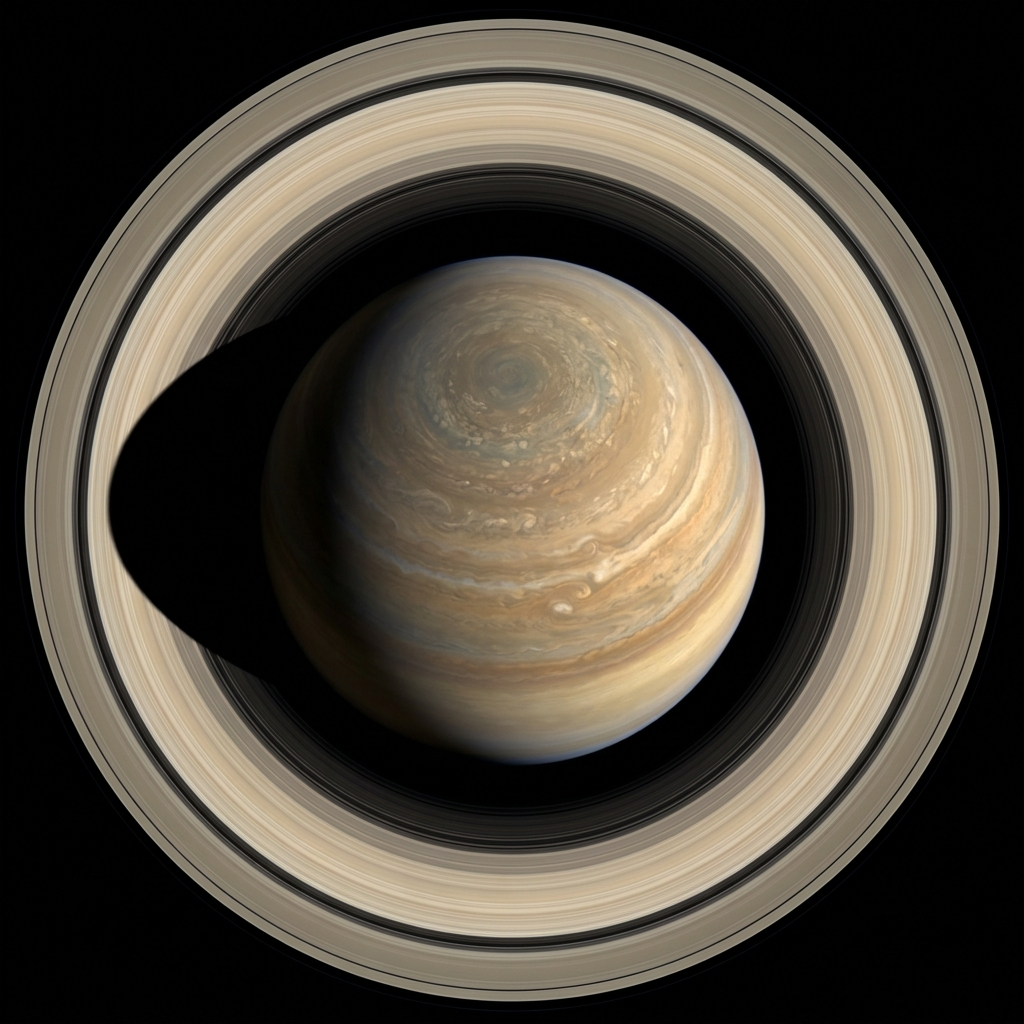
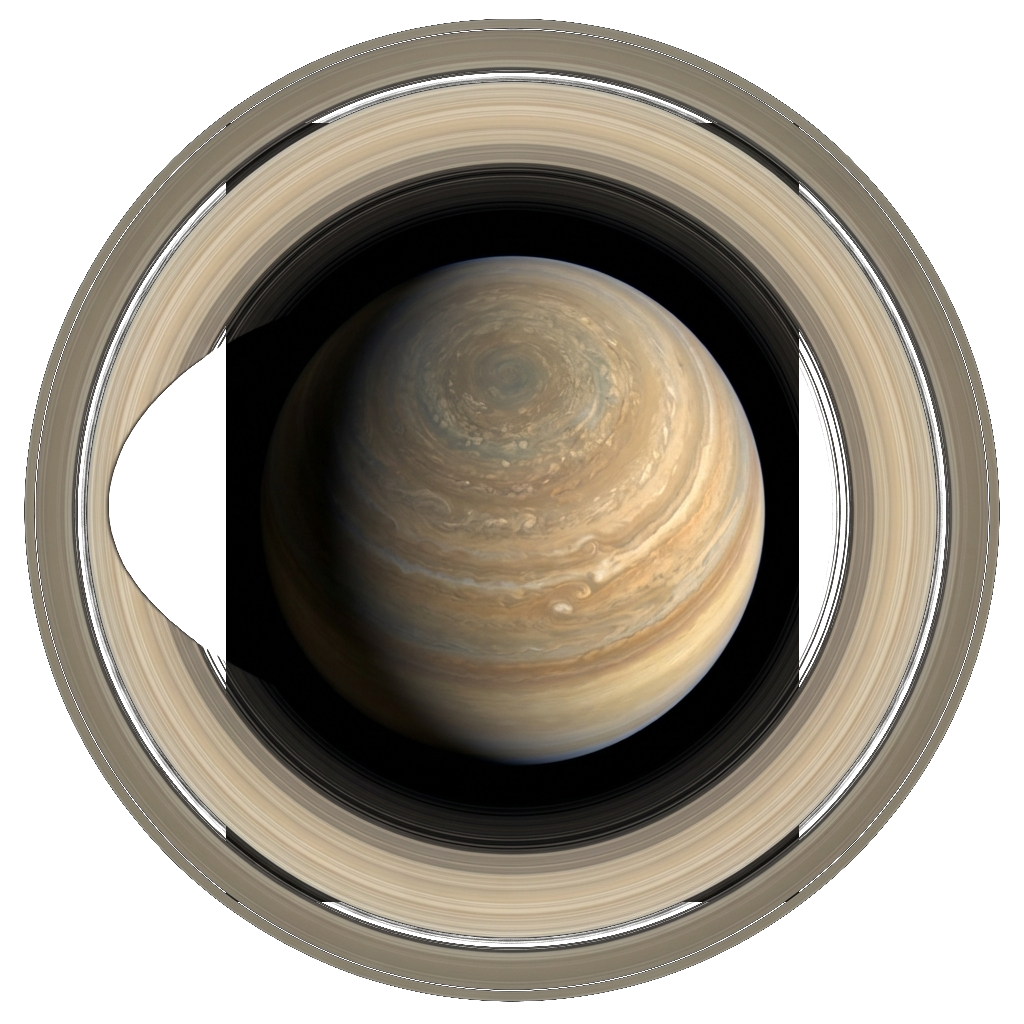
Transparentize Saturn background edges and zoom background map by 10%

diff --git a/components/StarfieldCanvas.tsx b/components/StarfieldCanvas.tsx
@@ -32,7 +32,7 @@ interface ConstellationDef {
 const CONSTELLATIONS: ConstellationDef[] = [
   {
     name: "Ursa Major (Big Dipper)",
-    scale: 2.5,
+    scale: 2.75,
     points: [
       { x: -50, y: -20, size: 1.2 },
       { x: -25, y: -15, size: 1.1 },
@@ -46,7 +46,7 @@ const CONSTELLATIONS: ConstellationDef[] = [
   },
   {
     name: "Orion",
-    scale: 3,
+    scale: 3.3,
     points: [
       { x: 40, y: -20, size: 1.8 }, // Betelgeuse (L Shoulder)
       { x: 35, y: 20, size: 1.2 },  // Bellatrix (R Shoulder)
@@ -67,7 +67,7 @@ const CONSTELLATIONS: ConstellationDef[] = [
   },
   {
     name: "Cassiopeia",
-    scale: 2,
+    scale: 2.2,
     points: [
       { x: -30, y: -20, size: 1.2 },
       { x: -15, y: 15, size: 1.1 },
@@ -79,7 +79,7 @@ const CONSTELLATIONS: ConstellationDef[] = [
   },
   {
     name: "Ursa Minor",
-    scale: 2.2,
+    scale: 2.42,
     points: [
       { x: 40, y: 40, size: 1.6 },   // Polaris (North Star)
       { x: 20, y: 25, size: 0.8 },   // Yildun
@@ -93,7 +93,7 @@ const CONSTELLATIONS: ConstellationDef[] = [
   },
   {
     name: "Cygnus",
-    scale: 2.5,
+    scale: 2.75,
     points: [
       { x: 0, y: -40, size: 1.6 }, // Deneb
       { x: 0, y: -10, size: 1.1 }, // Sadr
@@ -123,8 +123,8 @@ export default function StarfieldCanvas() {
     canvas.width = W;
     canvas.height = H;
 
-    // Generate stars
-    const numStars = Math.floor((W * H) / 2000);
+    // Generate stars (increased density by 10% more)
+    const numStars = Math.floor((W * H) / 1800);
     const stars: Star[] = [];
     for (let i = 0; i < numStars; i++) {
       stars.push({